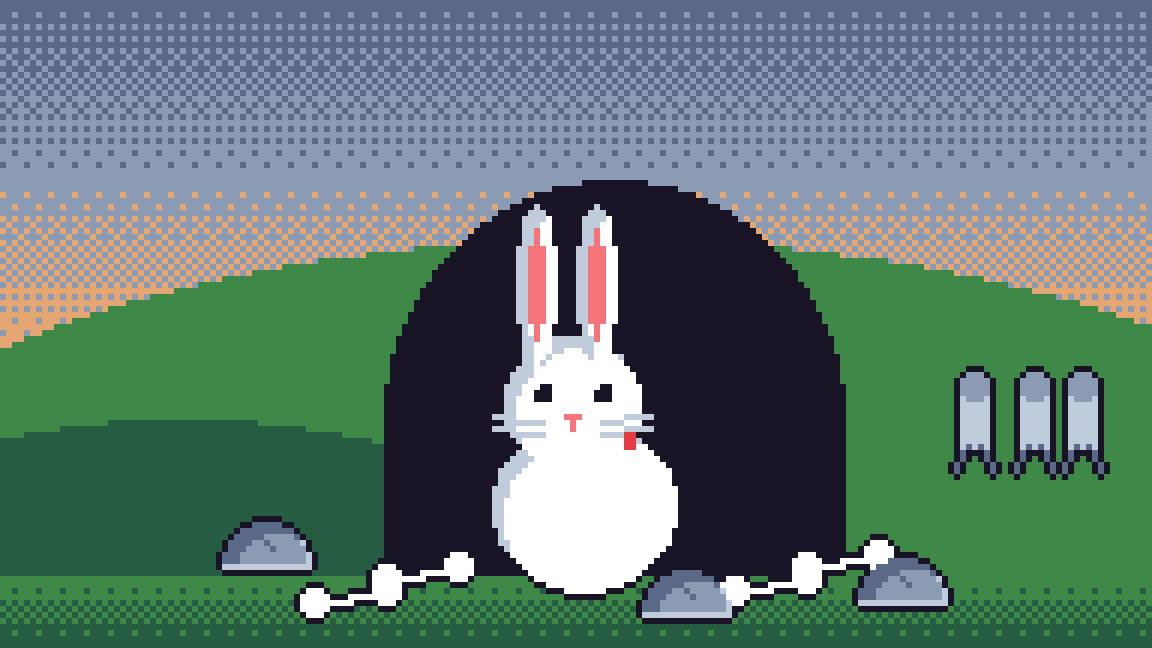
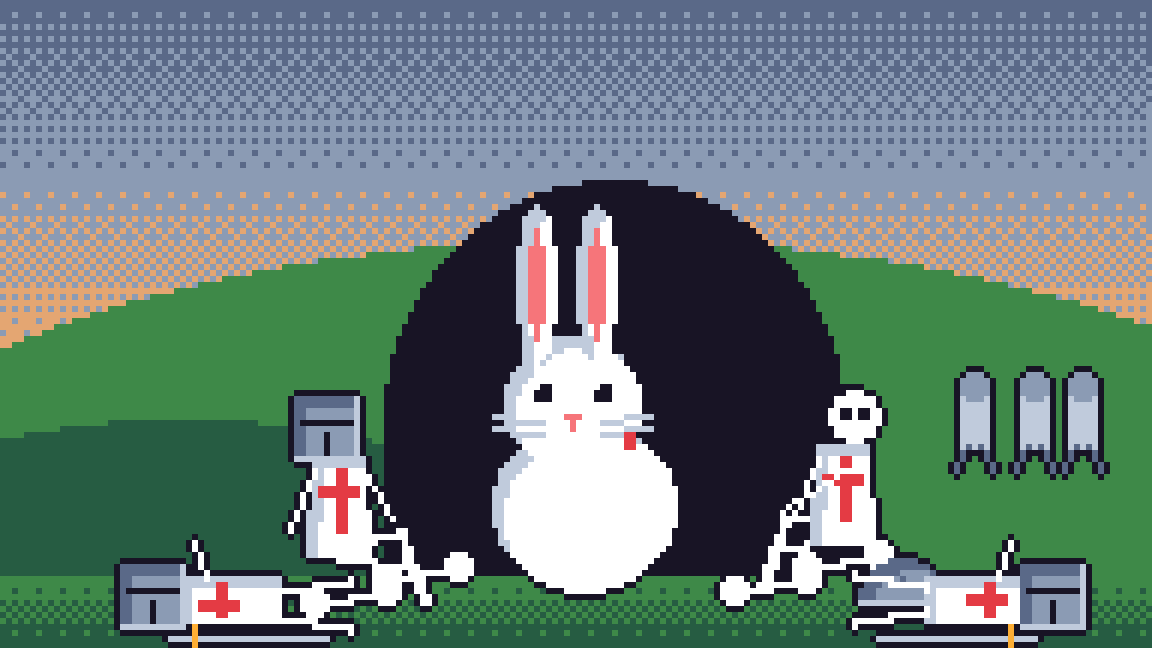
Pixel art: crusader skeletons (great helms, red-cross tabards) round the Killer Rabbit's lair

Changed region(s): [[0.0938, 0.5864, 0.375, 1.0], [0.6562, 0.5864, 0.9688, 1.0], [0.5312, 0.8642, 0.6562, 0.9877]]

diff --git a/Tools/pixel_art.py b/Tools/pixel_art.py
@@ -1011,6 +1011,42 @@ def supreme_court():
     return img
 
 
+def crusader_skeleton(img, x, y, pose, helm=True, flip=1):
+    """A dead crusader: a skeleton in a white tabard with a red cross, a bucket helm (or a bare skull). pose: "sitting"
+    against the rock, slumped; "lying" flat on its back."""
+    d = ImageDraw.Draw(img)
+    bone, cross = C["white"], C["red"]
+    if pose == "sitting":
+        # Legs out in front, the torso slumped, the head tipped over
+        d.line([(x, y), (x + flip * 12, y + 2), (x + flip * 14, y + 8)], fill=bone + (255,), width=2)
+        d.line([(x + 2, y - 2), (x + flip * 10, y - 4), (x + flip * 12, y + 4)], fill=bone + (255,), width=2)
+        shape(img, lambda dr, v: dr.polygon([(x - 5, y), (x + 5, y), (x + 4, y - 16), (x - 4, y - 16)], fill=v), C["white"], C["silver"])
+        d.line([(x, y - 14), (x, y - 4)], fill=cross + (255,), width=2)
+        d.line([(x - 3, y - 11), (x + 3, y - 11)], fill=cross + (255,), width=2)
+        d.line([(x - 4, y - 14), (x - 8, y - 4)], fill=bone + (255,))  # An arm hanging down
+        d.line([(x + 4, y - 14), (x + flip * 9, y - 6)], fill=bone + (255,))
+        hx, hy = x - flip * 2, y - 21
+    else:
+        # On its back, the head toward the cave, a sword beside it
+        shape(img, lambda dr, v: dr.polygon([(x, y - 4), (x + flip * 16, y - 4), (x + flip * 16, y + 3), (x, y + 3)], fill=v), C["white"], C["silver"])
+        d.line([(x + flip * 6, y - 3), (x + flip * 6, y + 2)], fill=cross + (255,), width=2)
+        d.line([(x + flip * 3, y), (x + flip * 9, y)], fill=cross + (255,), width=2)
+        for dy in (-2, 2):
+            d.line([(x + flip * 16, y + dy), (x + flip * 28, y + dy * 2)], fill=bone + (255,), width=2)
+        d.line([(x + flip * 4, y - 4), (x + flip * 2, y - 10)], fill=bone + (255,))
+        d.line([(x - flip * 2, y + 6), (x + flip * 24, y + 6)], fill=C["silver"] + (255,))  # The sword
+        d.line([(x + flip * 2, y + 4), (x + flip * 2, y + 8)], fill=C["amber"] + (255,))
+        hx, hy = x - flip * 5, y - 1
+    if helm:  # The great helm: a flat-topped bucket with an eye slit and a cross of breathing holes
+        shape(img, lambda dr, v: dr.rectangle([hx - 5, hy - 5, hx + 5, hy + 5], fill=v), C["grey"], C["slate"], C["silver"])
+        d.line([(hx - 4, hy - 1), (hx + 4, hy - 1)], fill=C["ink"] + (255,))
+        d.line([(hx, hy + 1), (hx, hy + 4)], fill=C["ink"] + (255,))
+    else:
+        d.ellipse([hx - 4, hy - 4, hx + 4, hy + 4], fill=bone + (255,))
+        d.rectangle([hx - 2, hy - 1, hx - 1, hy], fill=C["ink"] + (255,))
+        d.rectangle([hx + 1, hy - 1, hx + 2, hy], fill=C["ink"] + (255,))
+
+
 def killer_rabbit():
     img = layer()
     d = ImageDraw.Draw(img)
@@ -1020,9 +1056,14 @@ def killer_rabbit():
         d.line([x - 6, y, x + 6, y - 2], fill=C["white"] + (255,), width=2)
         d.ellipse([x - 8, y - 2, x - 4, y + 2], fill=C["white"] + (255,))
         d.ellipse([x + 4, y - 4, x + 8, y], fill=C["white"] + (255,))
-    for x, y in ((44, 94), (150, 100), (114, 102)):
+    for x, y in ((150, 100),):
         shape(img, lambda dr, v: dr.chord([x - 7, y - 7, x + 7, y + 7], 180, 360, fill=v), C["grey"], C["slate"], C["silver"])
         d.line([x - 2, y - 6, x + 1, y - 3], fill=C["slate"] + (255,))  # A dent
+    # Crusaders who tried: one slumped against each side of the cave mouth, one flat on his back, a fourth helmless
+    crusader_skeleton(img, 56, 92, "sitting", helm=True, flip=1)
+    crusader_skeleton(img, 140, 90, "sitting", helm=False, flip=-1)
+    crusader_skeleton(img, 30, 100, "lying", helm=True, flip=1)
+    crusader_skeleton(img, 170, 100, "lying", helm=True, flip=-1)
     # The rabbit: small, fluffy, innocent, a drop of red on its whiskers
     shape(img, lambda dr, v: dr.ellipse([82, 70, 112, 98], fill=v), C["white"], C["silver"])
     shape(img, lambda dr, v: dr.ellipse([84, 56, 106, 78], fill=v), C["white"], C["silver"])

diff --git a/Tools/art_briefs.py b/Tools/art_briefs.py
@@ -27,6 +27,7 @@ USER_NOTES = {
                 "2026-10-14: then: keep only the first, shorter fire on the ground around it; no fire climbing over it.",
                 "2026-10-14: then: that short fire in front of the unicorn."],
     "Schrodinger's Cat": ["2026-10-14 (pixel art): no 50% printed on the box."],
+    "Killer Rabbit of Caerbannog": ["2026-10-14 (pixel art): skeletons in crusader armor around the bunny's lair."],
     "Hostile Takeover": ["2026-10-14 (pixel art): the mouth a smile instead of an open box; the dorsal fin swept back, not a pyramid."],
     # From earlier sessions
     "Dogpile": ["A big pile of dogs on top of someone."],
